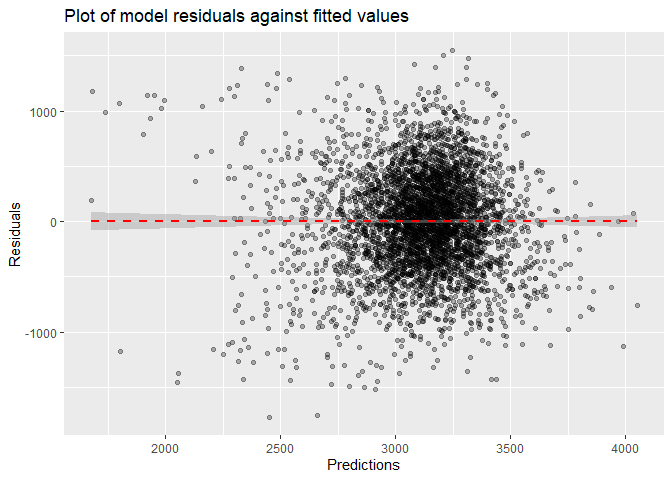
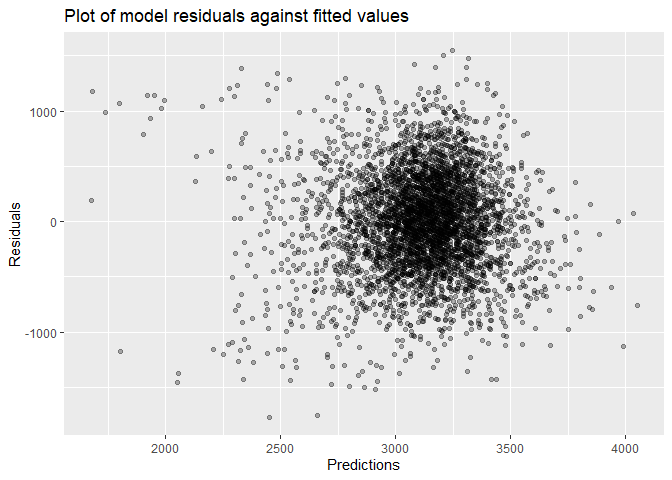
modify 95% CI

Changed region(s): [[0.125, 0.4375, 0.9688, 0.5]]

diff --git a/p8105_hw6_lg3156.md b/p8105_hw6_lg3156.md
@@ -249,15 +249,12 @@ fit_1_df =
 fit_1_df %>% 
   ggplot(aes(x = pred, y = resid)) + 
   geom_point(alpha = 0.3) +
-  geom_smooth(method = "lm", color = "red", linetype = 2) + 
   labs(
     title = "Plot of model residuals against fitted values",
     x = "Predictions",
     y = "Residuals"
   )
 ```
-
-    ## `geom_smooth()` using formula 'y ~ x'
 
 ![](p8105_hw6_lg3156_files/figure-gfm/unnamed-chunk-8-1.png)<!-- -->
 
@@ -473,24 +470,33 @@ log_beta %>%
 The distribution of log(^β0 x ^β1) is approximately normal, too. The
 mean of it is about 2.02.
 
+## 95% CI for r^2
+
 ``` r
-quantile(bootstrap_results$r_squared, probs = c(0.025,0.975)) %>% knitr::kable(caption = "95% CI for r^2")
+bootstrap_results %>% 
+  distinct(id, r_squared) %>%
+  summarise(lower = quantile(r_squared, 0.025) %>% round(digits = 3),
+            upper = quantile(r_squared, 0.975) %>% round( digit = 3)) %>%
+  knitr::kable(caption = "95% CI for r^2")
 ```
 
-|       |         x |
-| :---- | --------: |
-| 2.5%  | 0.8937457 |
-| 97.5% | 0.9272915 |
+| lower | upper |
+| ----: | ----: |
+| 0.894 | 0.927 |
 
 95% CI for r^2
 
+## 95% CI for log(^β0 x ^β1)
+
 ``` r
-quantile(log_beta$log_beta01, probs = c(0.025,0.975)) %>% knitr::kable(caption = "95% CI for log(^β0 x ^β1)")
+log_beta %>% 
+  summarise(lower = quantile(log_beta01, 0.025)%>% round(digits = 3),
+            upper = quantile(log_beta01, 0.975)%>% round(digits = 3)) %>%
+  knitr::kable(caption = "95% CI for log(^β0 x ^β1)")
 ```
 
-|       |        x |
-| :---- | -------: |
-| 2.5%  | 1.967246 |
-| 97.5% | 2.059363 |
+| lower | upper |
+| ----: | ----: |
+| 1.967 | 2.059 |
 
 95% CI for log(^β0 x ^β1)
